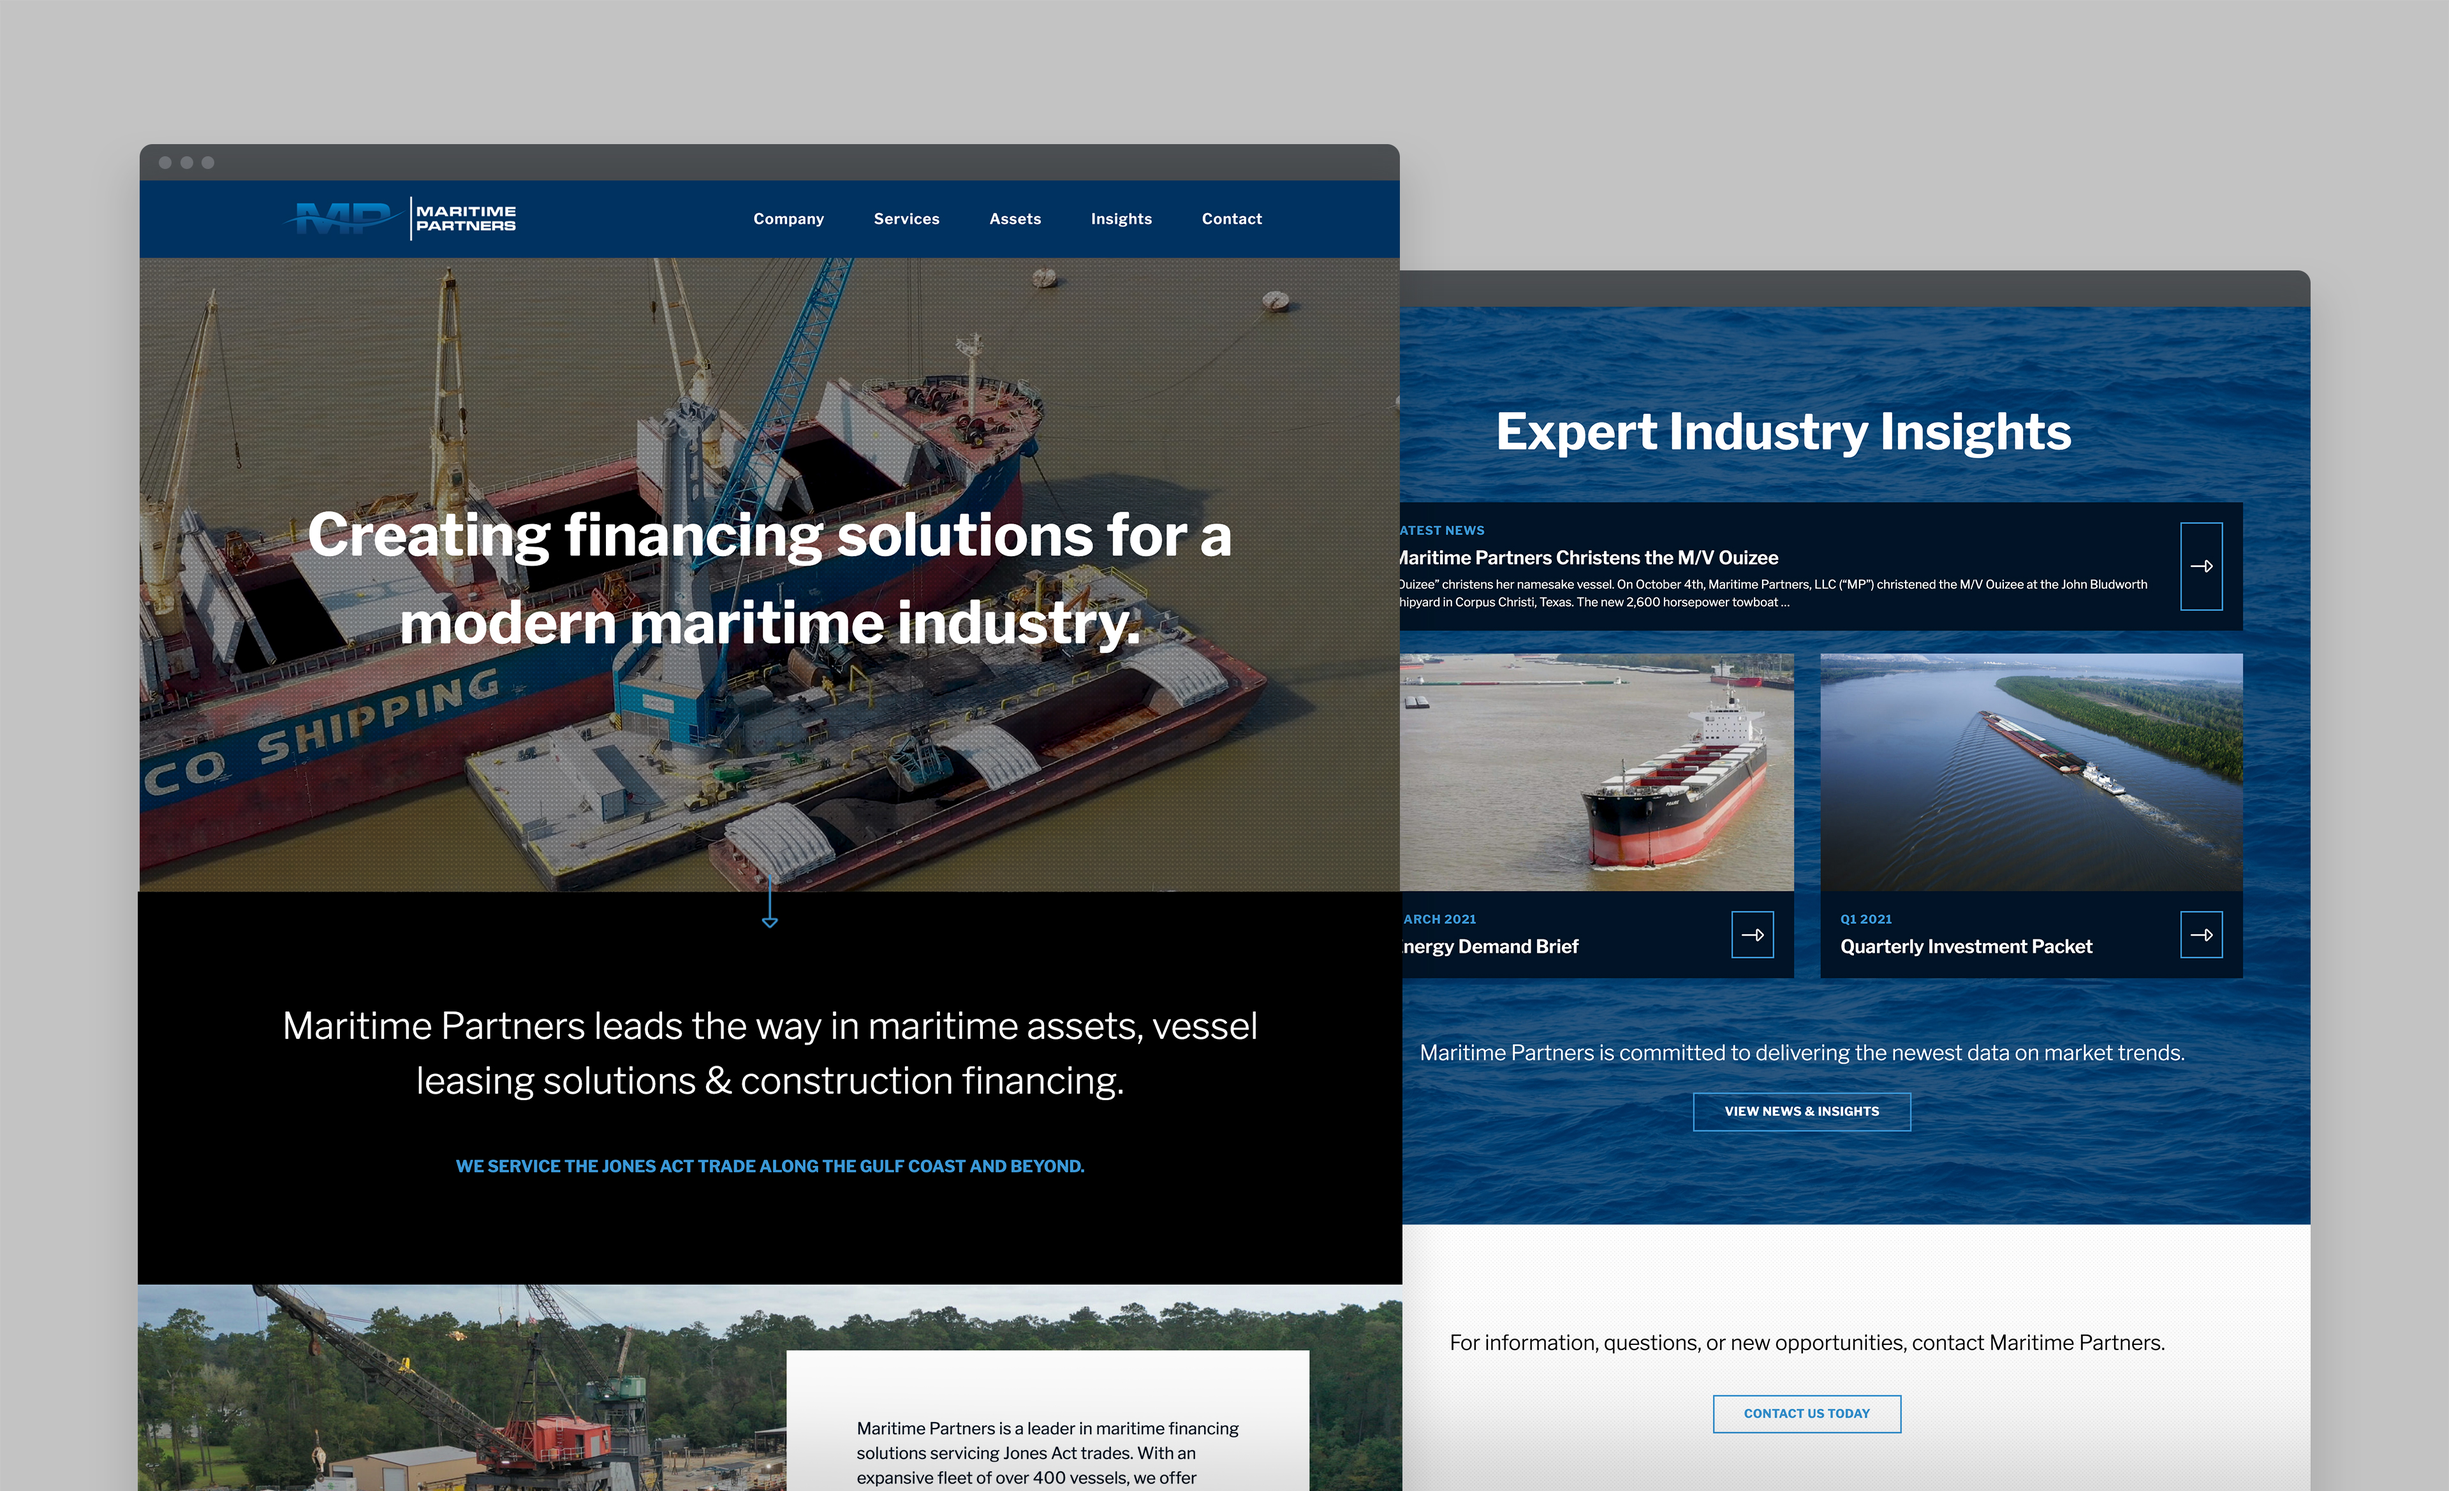
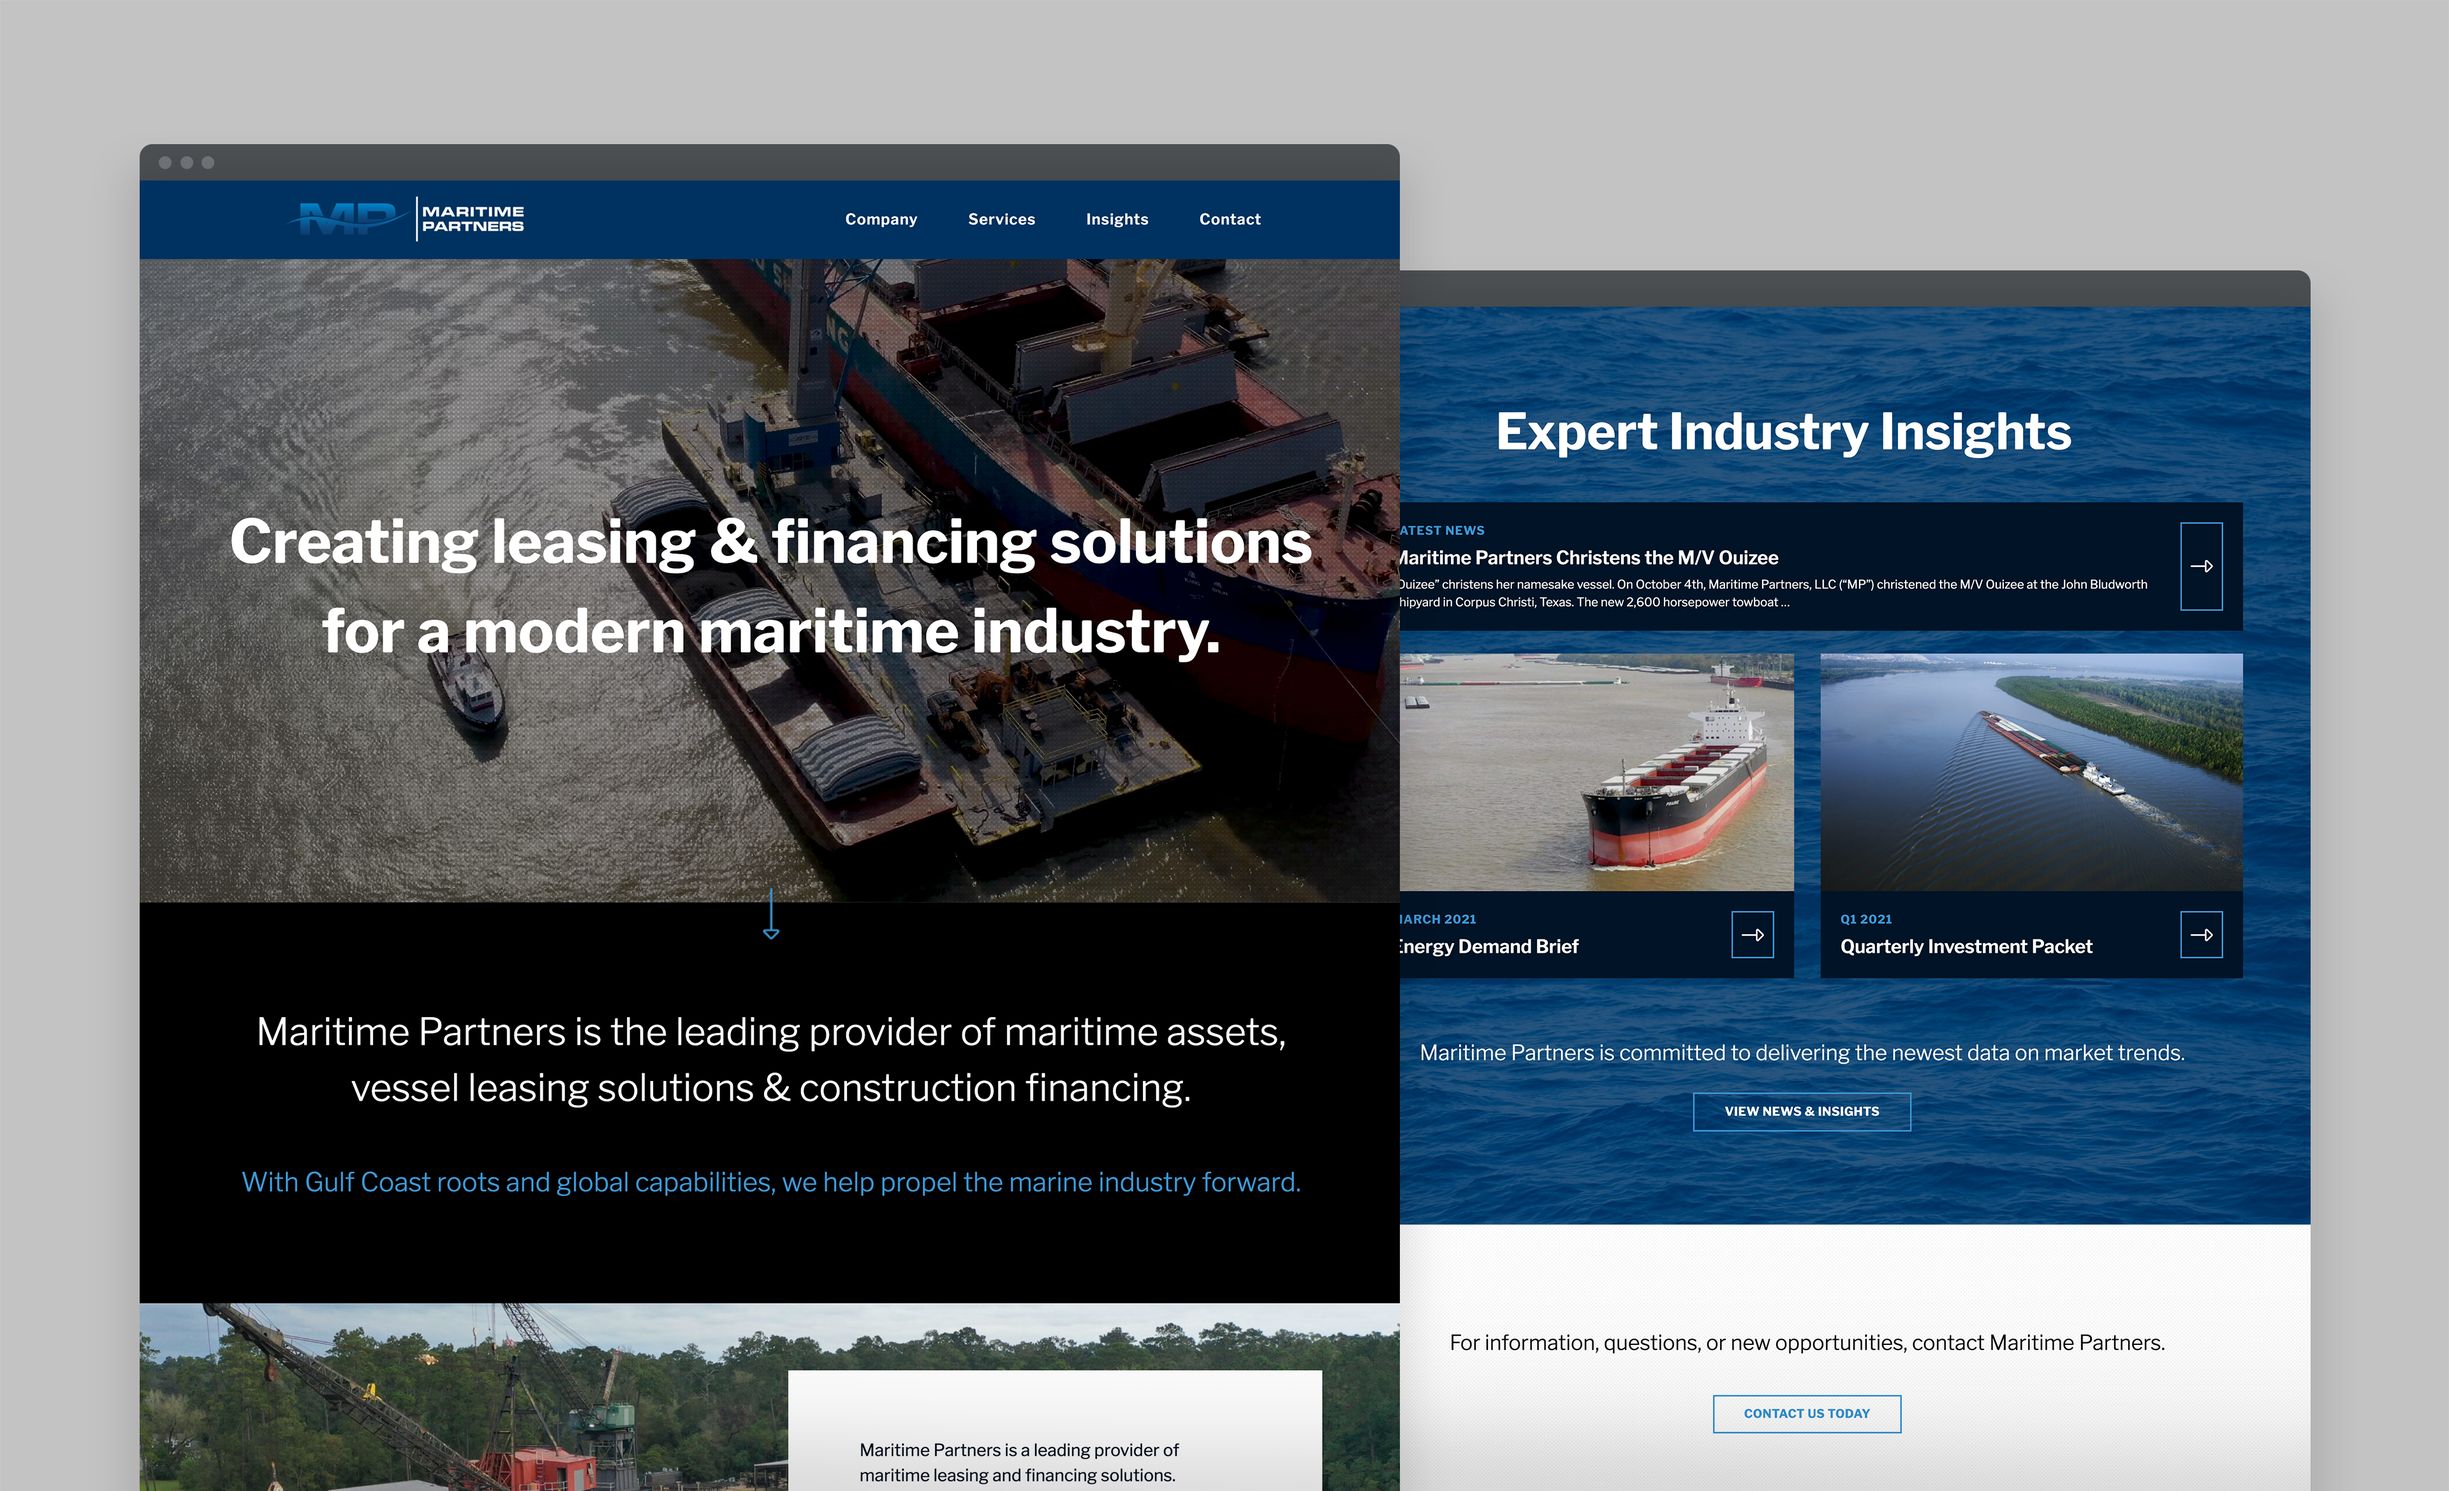
Finishes MP page. Minor text updates to About, Contact, Work, and Websites pages

diff --git a/work/maritime-partners/index.html b/work/maritime-partners/index.html
@@ -31,7 +31,7 @@
 		</header>
 		<section class="inset title">
 			<h1>Maritime Partners</h1>
-			<h3>A stylish website for a luxury condominium in a hip New Orleans neighborhood.</h3>
+			<h3>A state-of-the-art website for a modern maritime financing company.</h3>
 		</section>
 		<main>
 			<div class="full">
@@ -39,7 +39,7 @@
 			</div>
 			<section class="inset">
 				<div class="text">
-					<h3>The Saxony is a luxury condominium located in the funky Bywater neighborhood of New Orleans. While the building is new, its locale is rooted in culture. The Saxony's previous website lacked luster and appeal. They needed a site that could attract buyers and showcase its upscale amenities.</h3>
+					<h3>Maritime Partners offers maritime leasing and financing services to the Jones Act trade and beyond with their impressive fleet of vessels. They have decades of experience in asset management, financing, and shipbuilding. They are experts in their field and routinely publish market insights on the latest market data. In order to attract investors and showcase themselves as leaders of the industry, I designed a new website with a clean, sharp, modern, and financial look.</h3>
 				</div>
 				<div class="details">
 					<dl>
@@ -52,7 +52,7 @@
 					</dl>
 					<dl>
 					  <dt>Active</dt>
-					  <dd>2020-present</dd>
+					  <dd>2020-2021</dd>
 					 </dl>
 					<dl>
 					  <dt>Role</dt>
@@ -72,13 +72,8 @@
 			<div class="full">
 				<img src="mp-2.jpg" alt="Maritime Partners Website">
 			</div>
-			<section class="inset">
-				<div class="text">
-					<h3>The concept for the website is a sleek, modern design with subtle effects and graceful interactions. A fixed vertical header nods to the building's architectural design. The homepage features five sections with controlled scrolling in order to closely engage with each part of the story.</h3>
-				</div>
-			</section>
 			<div class="full">
-				<img src="saxony-web-2.jpg" alt="The Saxony Condos">
+				<img src="mp-3.jpg" alt="Maritime Partners Website">
 			</div>
 			<div class="full">
 				<img src="mp-colors.jpg" alt="Maritime Partners Website">
@@ -87,13 +82,7 @@
 				<img src="mp-phones.jpg" alt="Maritime Partners Website">
 			</div>
 			<div class="full">
-				<img src="saxony-web-4.jpg" alt="The Saxony Condos">
-			</div>
-			<div class="full">
-				<img src="saxony-web-5.jpg" alt="The Saxony Condos">
-			</div>
-			<div class="full">
-				<img src="saxony-web-3.jpg" alt="The Saxony Condos">
+				<img src="mp-4.jpg" alt="Maritime Partners Website">
 			</div>
 		</main>
 	</div>

diff --git a/about/index.html b/about/index.html
@@ -31,7 +31,7 @@
 		</header>
 		<section class="inset title">
 			<h1>I'm an award-winning Senior Designer & UX Strategist in New Orleans, Louisiana with 9+ years of experience in a fast-paced creative and interactive agency.</h1>
-			<div style="float: right; margin-top: 0 !important; width: 30%; padding-left: 30px; padding-bottom: 30px;"><img class="img-small" src="../images/photo.jpg" alt="Kelsey Abbate"> 
+			<div style="float: right; margin-top: 0 !important; width: 30%; padding-left: 30px; padding-bottom: 30px;"><img class="img-small" src="../images/photo.jpg" alt="It's me, Kelsey Abbate"> 
 			</div>
 			<h3>My background in graphic design and web development allows me to work on multidisiciplinary projects including creative strategy, branding, websites, and print/digital design.</h3>
 			<h3>As a Senior Designer I strive to create beautiful and simplistic solutions that effectively get the message across. I've created logos, posters, brochures, signage, reports &amp; books, and a variety of large and small custom websites. I primarily focus on advertising, layouts, website design, and brand decks.</h3>

diff --git a/work/index.html b/work/index.html
@@ -32,7 +32,7 @@
 		</header>
 		<section class="inset title">
 			<h1>A portfolio of multidisciplinary creative work including branding, graphic design &amp; strategy.</h1>
-			<h3>My experience encompasses identities, print &amp; editorial design, digital &amp; website design, front-end web development, and UX strategy. I am also involved in QA, art direction, and project processes.</h3>
+			<h3>My experience encompasses identities, print &amp; editorial design, digital &amp; website design, front-end web development, and UX strategy. I am also involved in QA, art direction, and processes.</h3>
 		</section>
 		<main class="cards">
 			<div class="card-grid card-grid-two-third">

diff --git a/work/websites/index.html b/work/websites/index.html
@@ -39,7 +39,7 @@
 				<img src="web-mp.jpg" alt="Website Collection - Maritime Partners">
 				<div class="inset">
 				<h5>Maritime Partners</h5>
-					<p>An...<br /><br /><a href="../maritime-partners">View Project</a></p>
+					<p>A state-of-the-art website for a modern maritime financing company that showcases their services in asset management, financing, and shipbuilding.<br /><br /><a href="../maritime-partners">View Project</a></p>
 				</div>
 			</section>
 			<section class="full">

diff --git a/contact/index.html b/contact/index.html
@@ -30,8 +30,8 @@
 			</nav>
 		</header>
 		<section class="inset title">
-			<h1>Thank you for visiting my website!</h1>
-			<h3>Reach out to hello[at]kelseyabbate[dot]com</h3>
+			<h1>Thanks for visiting!</h1>
+			<h3>If you'd like to get in touch, reach out to hello[at]kelseyabbate[dot]com</h3>
 		</section>
 	</div>
 	<footer>
